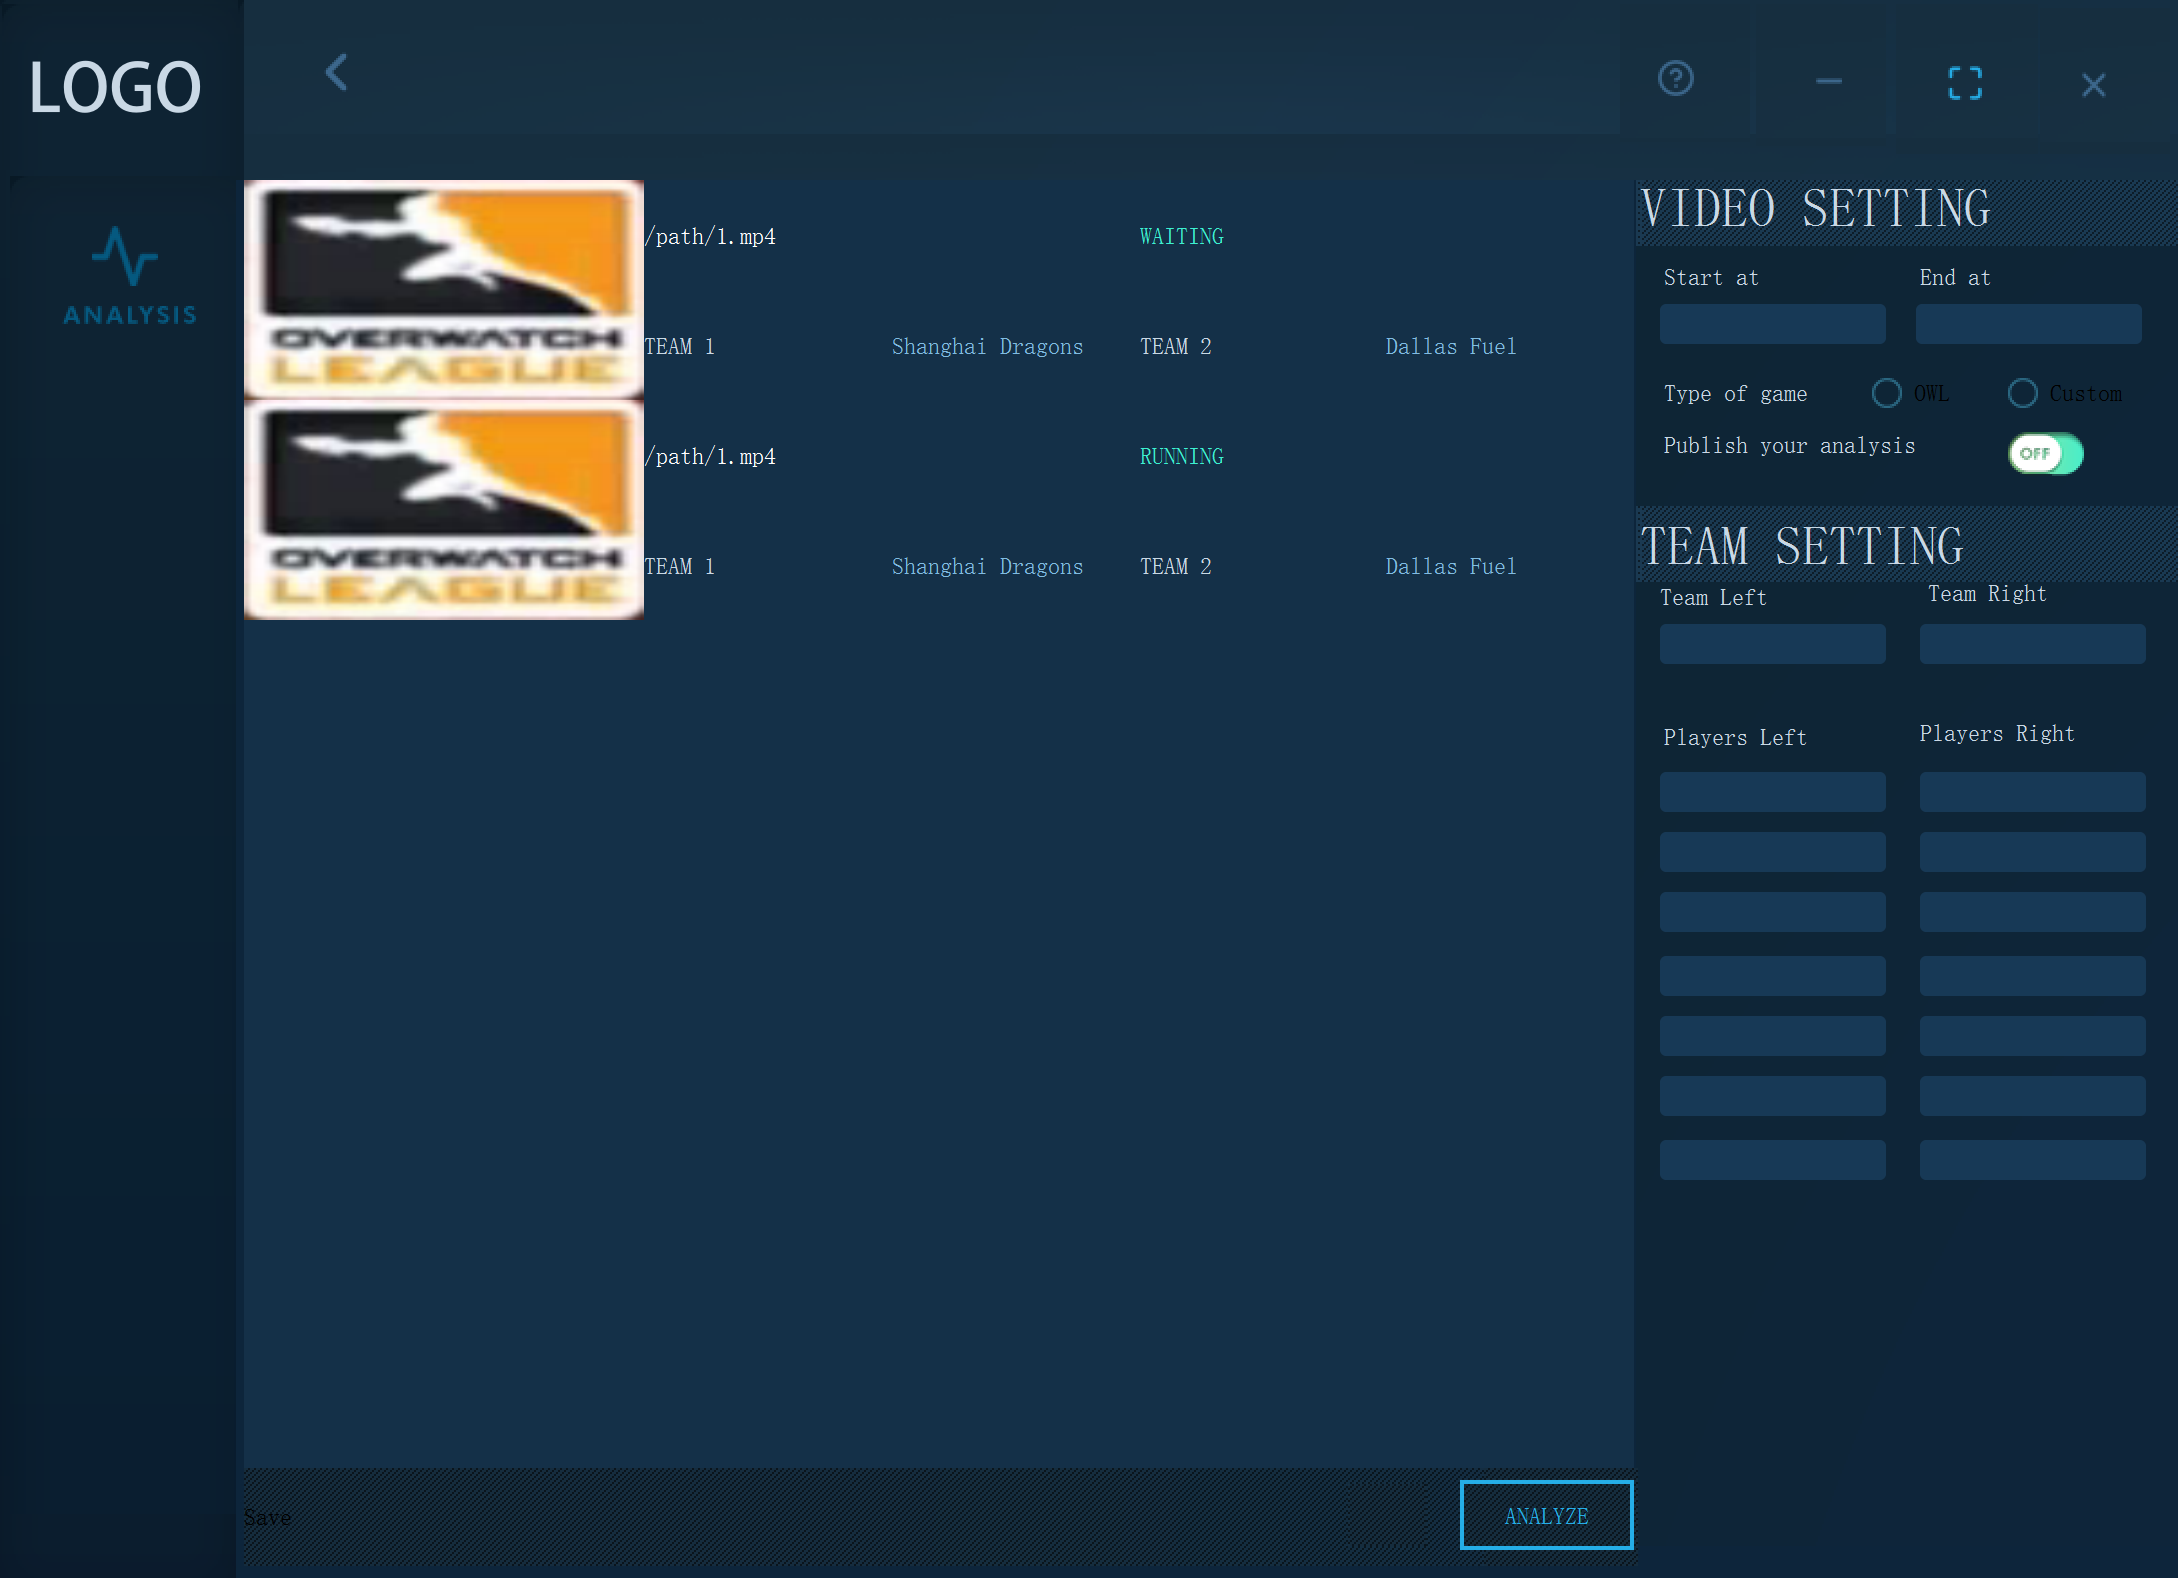
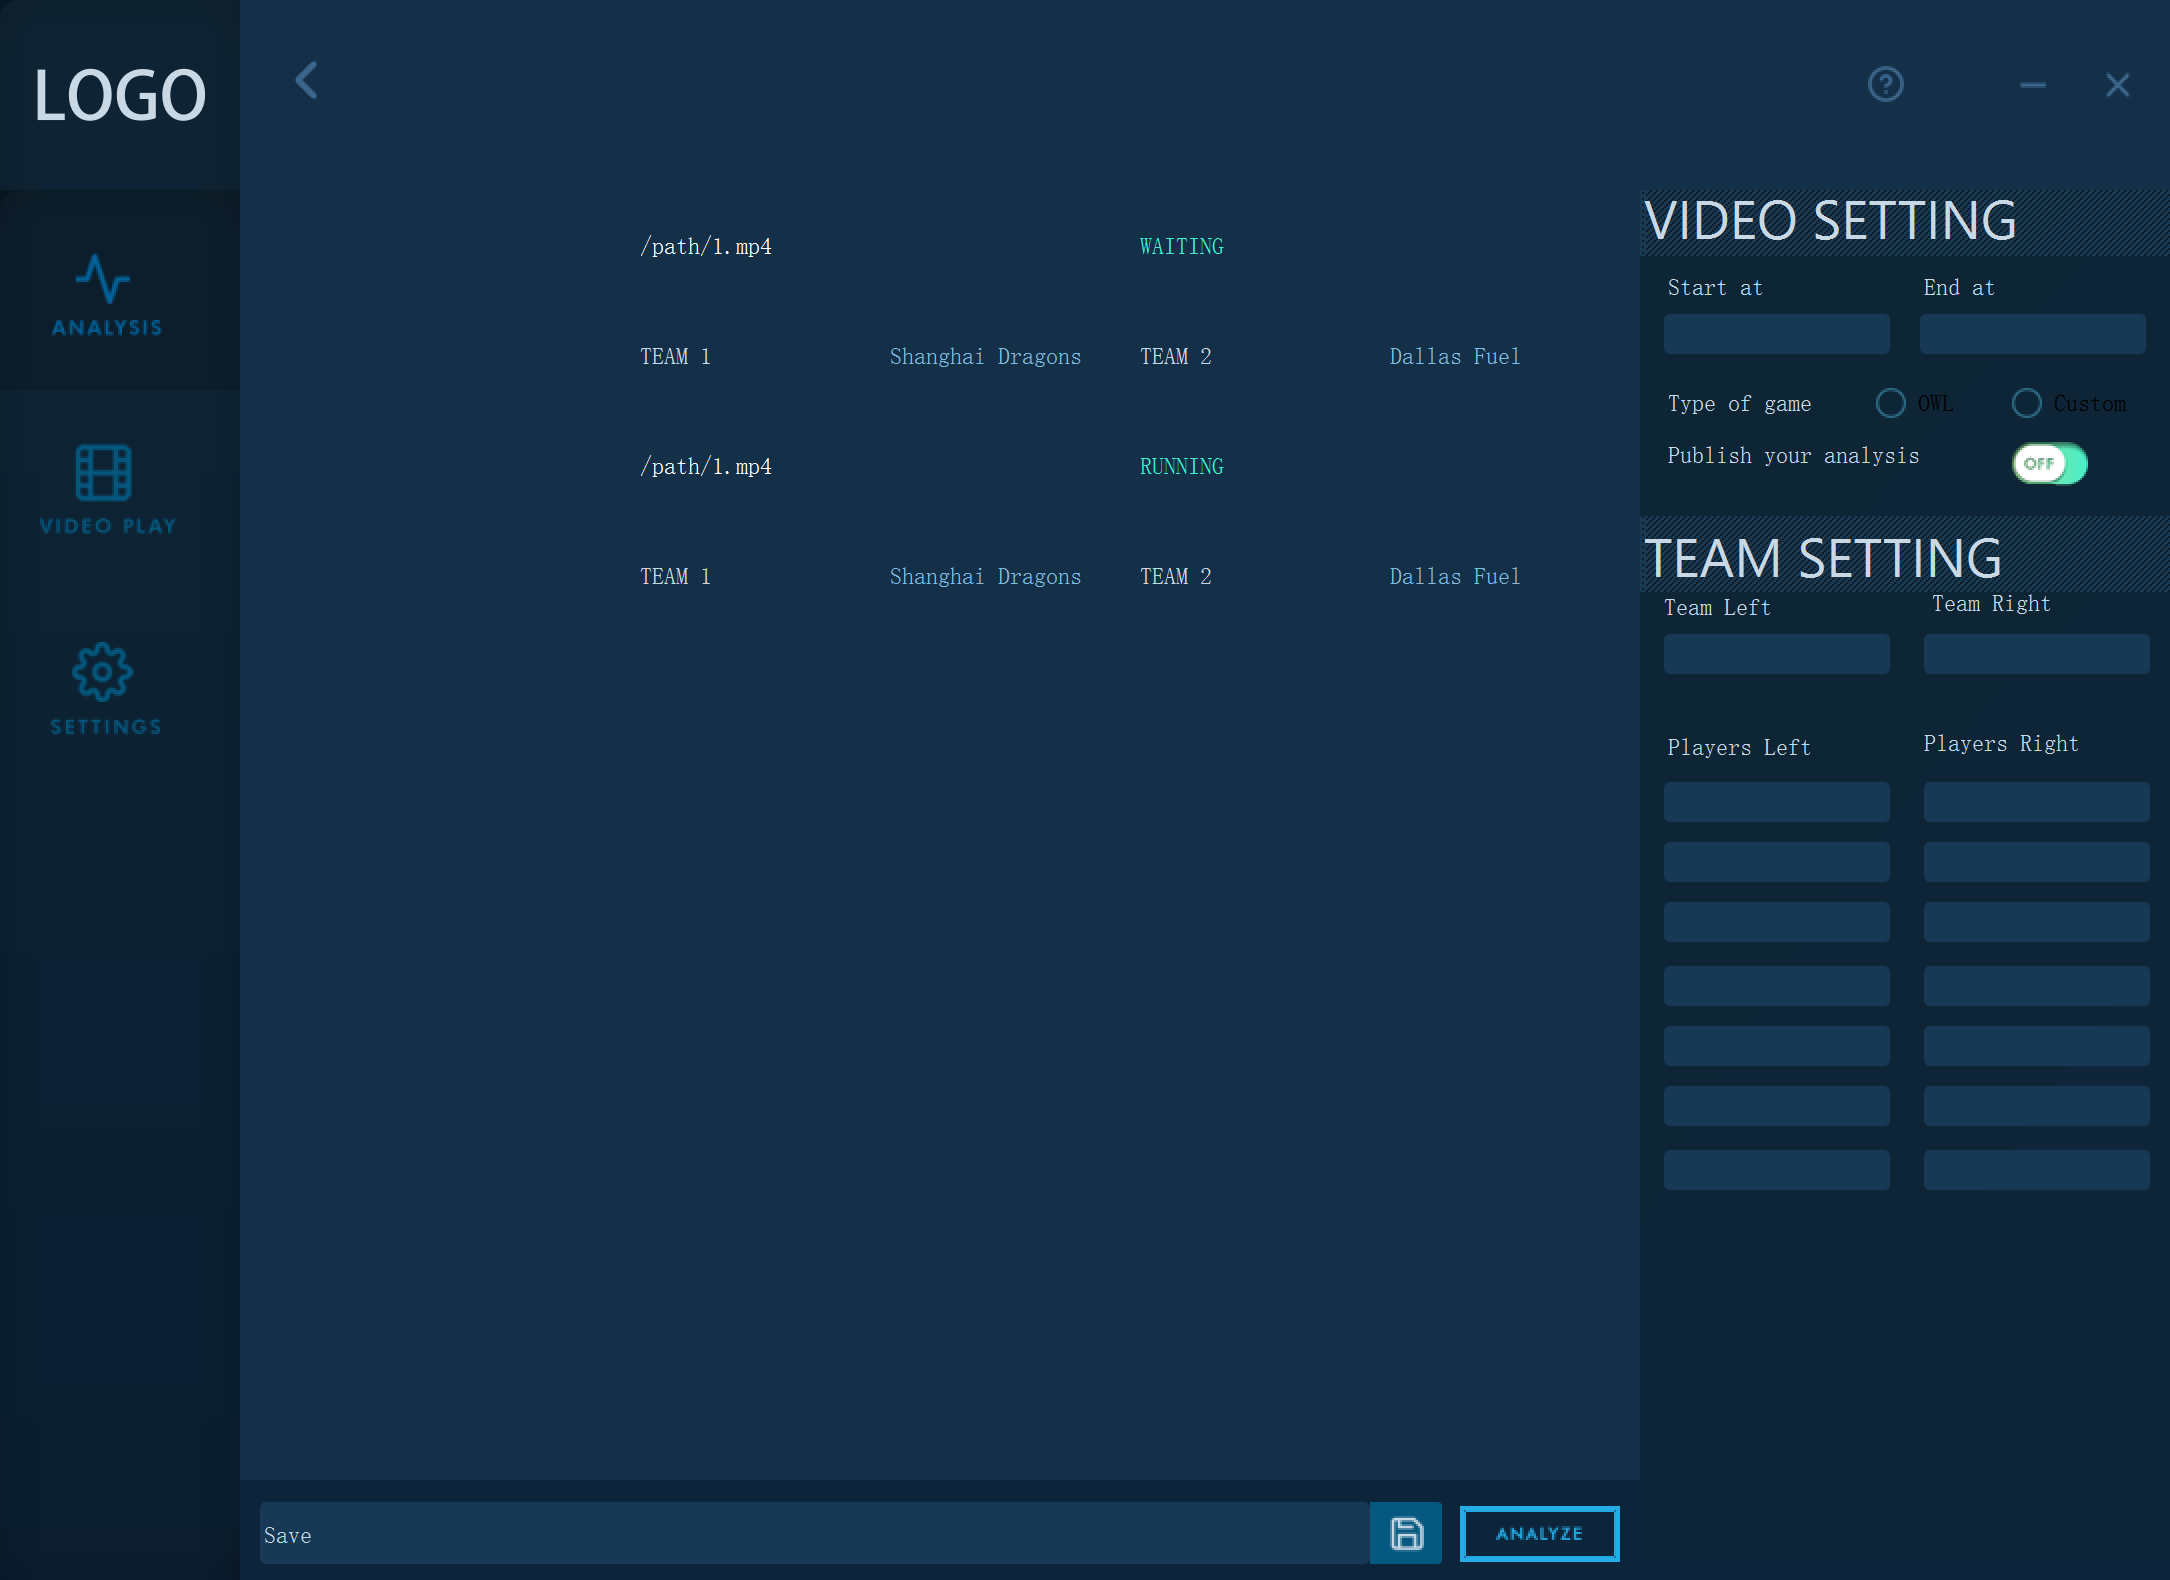
update ui

diff --git a/ora/gui/style.py b/ora/gui/style.py
@@ -3,7 +3,7 @@ from default import COPY_RIGHT
 
 background_imgs = {
     'left_group': 'left_bg.png',
-    'top_group': 'top_bg.png',
+    #'top_group': 'top_bg.png',
     #'analyze_group': 'analyze_bg.png',
     'video_title_group': 'column_title_bg.png',
     'team_title_group': 'column_title_bg.png',
@@ -14,7 +14,8 @@ background_imgs = {
 }
 
 background_colors = {
-    'video_listwidget': '#143048'
+    'video_listwidget': '#143048',
+    'top_group': '#143048'
 }
 
 button_icons = {
